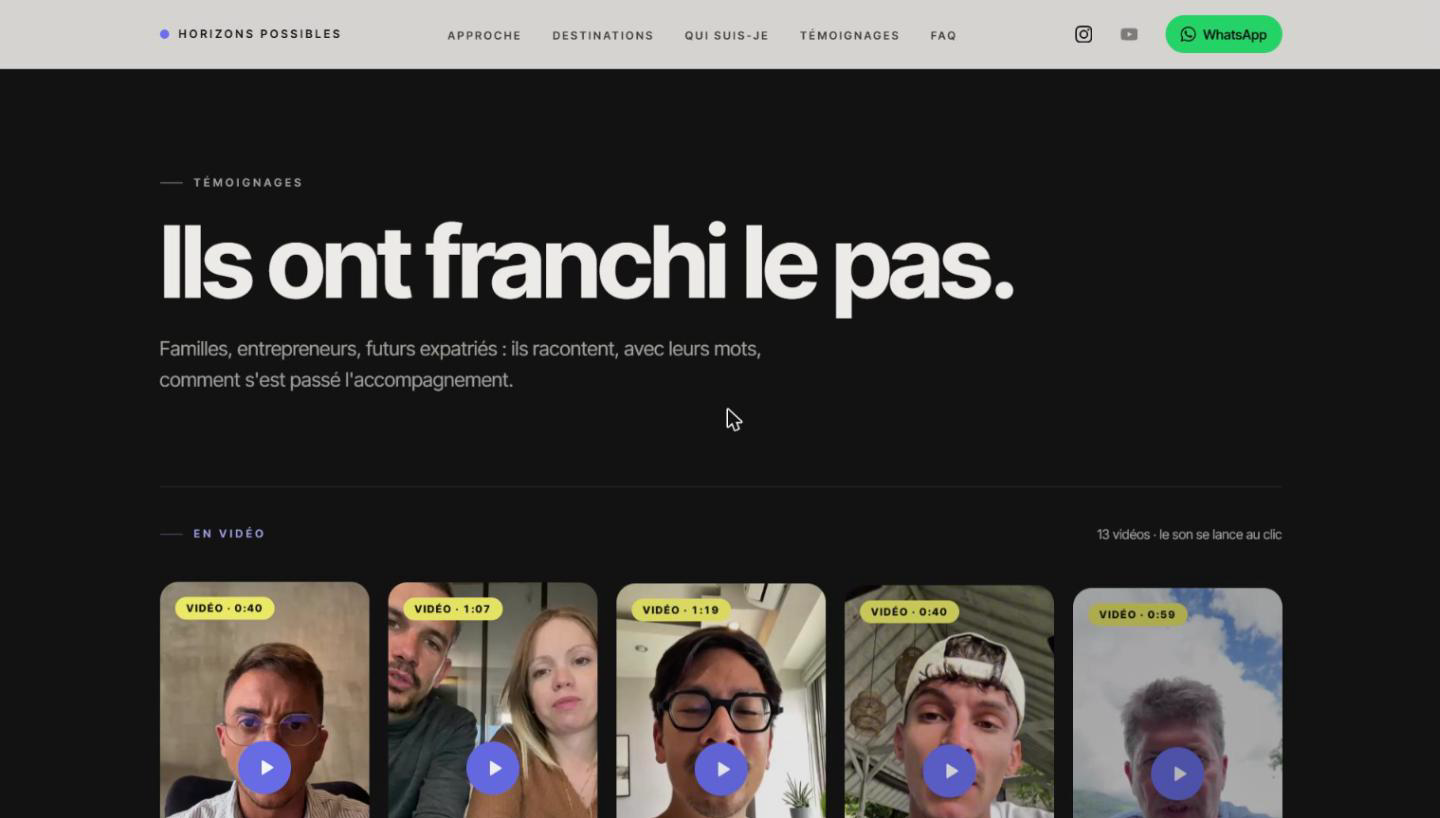
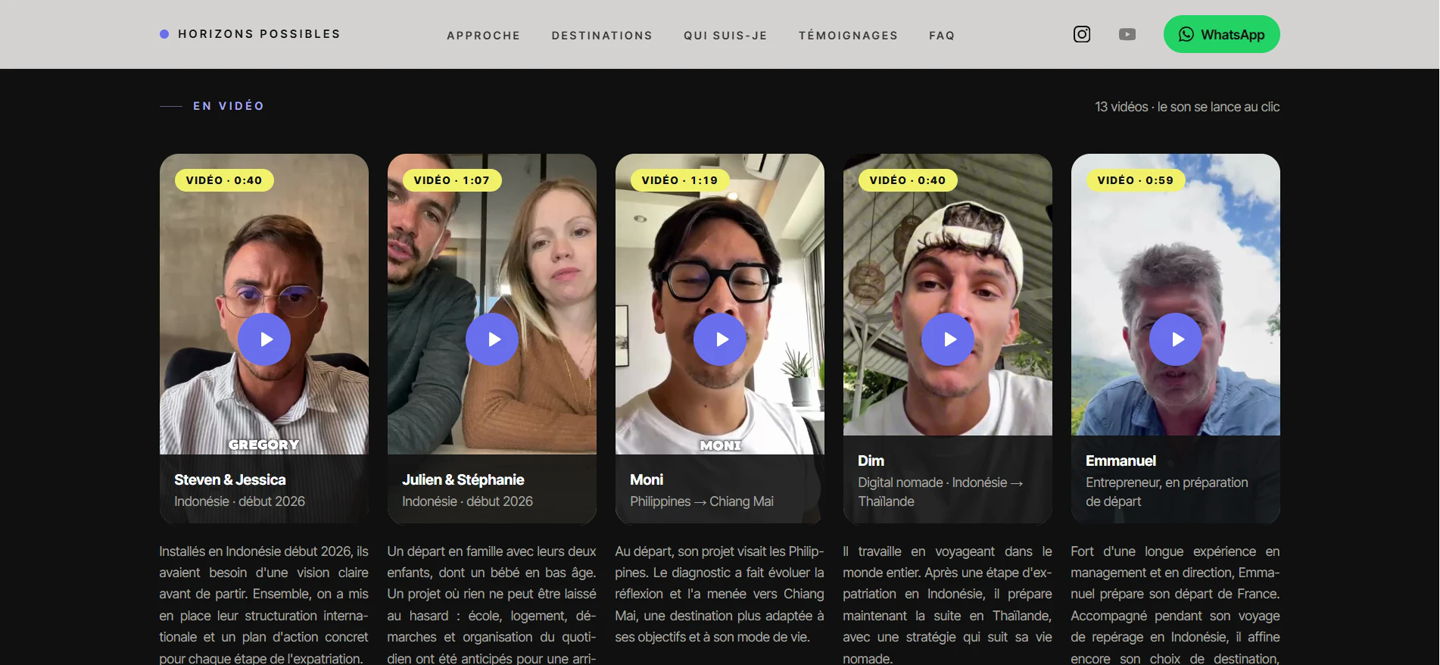
feat(horizons): replace screenshots with client-provided images, remove mobile tab
Replace all auto-generated screenshots with the client's own screenshots.
Crop scrollbar, scale to 1440px wide. Remove the Mobile pagesInfoArr tab
and its 4 image imports. Pages Pays now uses a single image.

diff --git a/config/projects.ts b/config/projects.ts
@@ -4,10 +4,6 @@ import balijewelryhome from "@/public/projects/balijewelry/balijewelryhome.png";
 import horizonsHomepage from "@/public/projects/horizonspossibles/horizons-homepage.png";
 import horizonsTemoignages from "@/public/projects/horizonspossibles/horizons-temoignages.png";
 import horizonsPaysHero from "@/public/projects/horizonspossibles/horizons-pays-hero.png";
-import horizonsPaysDetails from "@/public/projects/horizonspossibles/horizons-pays-details.png";
-import horizonsMobileHome from "@/public/projects/horizonspossibles/horizons-mobile-home.png";
-import horizonsMobileTemoignages from "@/public/projects/horizonspossibles/horizons-mobile-temoignages.png";
-import horizonsMobilePays from "@/public/projects/horizonspossibles/horizons-mobile-pays.png";
 import dashdesktop1 from "@/public/projects/dashboard/desktop1.png";
 import dashdesktop2 from "@/public/projects/dashboard/desktop2.png";
 import dashdesktop3 from "@/public/projects/dashboard/desktop3.png";
@@ -183,13 +179,7 @@ export async function createProjects(): Promise<ProjectInterface[]> {
             title: "Pages Pays",
             description:
               i18n('projects.horizonspossibles.paysdesc'),
-            imgArr: [horizonsPaysHero, horizonsPaysDetails],
-          },
-          {
-            title: "Mobile",
-            description:
-              i18n('projects.horizonspossibles.mobiledesc'),
-            imgArr: [horizonsMobileHome, horizonsMobileTemoignages, horizonsMobilePays],
+            imgArr: [horizonsPaysHero],
           },
         ],
         descriptionDetails: {
